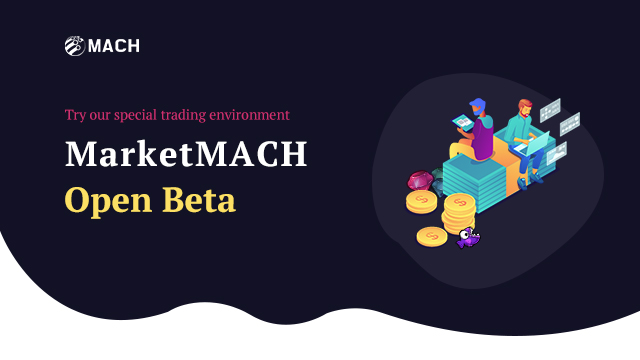
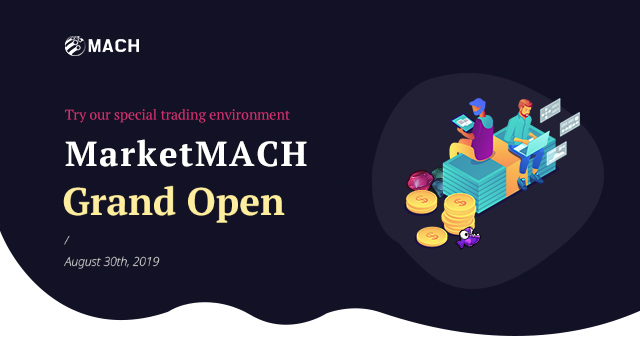
[메인] 한글, 영문 메인 배너 변경

Changed region(s): [[0.0938, 0.5194, 0.4375, 0.6417], [0.0938, 0.7028, 0.25, 0.7639]]

diff --git a/views/v2/main/index.html b/views/v2/main/index.html
@@ -345,8 +345,16 @@
         <div class="visual_wrap">
             <section class="visual_sec">
                 <h1 class="blind">메인 비주얼 이미지 영역</h1>
-                <div class="slick_visual">    
+                <div class="slick_visual">
                     <div class="visual_img">
+                        <div class="pc_img">
+                            <img src="/static/img/main/main_visual18.jpg" alt="마하코인 상장">
+                        </div>
+                        <div class="mob_img">
+                            <img src="/static/img/mob/m_main_visual18.jpg" alt="마하코인 상장">
+                        </div>
+                    </div>                    
+                    <!-- <div class="visual_img">
                         <a href="http://bit.ly/2JsCDwQ" target="_blank">
                             <div class="pc_img">
                                 <img src="/static/img/main/main_visual15.jpg" alt="LATOKEN">
@@ -365,7 +373,7 @@
                                 <img src="/static/img/mob/m_main_visual14.jpg" alt="마하코인 2차 IEO">
                             </div>
                         </a>
-                    </div>
+                    </div> -->
                     <div class="visual_img">
                         <a href="/gameStation/superlanding/info">
                             <div class="pc_img">
@@ -404,7 +412,7 @@
                 </div>
                 <%# nav-visual-length의 숫자 배너 length에 맞게 적을 것 %>
                 <div class="nav_slick_visual" id="navSlcikVisual" nav-visual-length="4">
-                    <div class="nav_text_box"><div class="nav_text_box_inner"><em>LATOKEN</em></div></div>
+                    <div class="nav_text_box"><div class="nav_text_box_inner"><em>마하코인 상장</em></div></div>
                     <div class="nav_text_box"><div class="nav_text_box_inner"><em>마하코인 2차 IEO</em></div></div>    
                     <div class="nav_text_box"><div class="nav_text_box_inner"><em>2nd MACH Game</em></div></div>
                     <div class="nav_text_box"><div class="nav_text_box_inner"><em>마켓마하 오픈베타</em></div></div>

diff --git a/views/v2_en/main/index.html b/views/v2_en/main/index.html
@@ -346,7 +346,7 @@
             <section class="visual_sec">
                 <h1 class="blind">Main Banners</h1>
                 <div class="slick_visual">
-                    <div class="visual_img">
+                    <!-- <div class="visual_img">
                         <a href="http://bit.ly/2JsCDwQ" target="_blank">
                             <div class="pc_img">
                                 <img src="/static/img/main/main_visual15.jpg" alt="LATOKEN">
@@ -355,6 +355,14 @@
                                 <img src="/static/img/mob/m_main_visual15.jpg" alt="LATOKEN">
                             </div>
                         </a>
+                    </div>              -->
+                    <div class="visual_img">
+                        <div class="pc_img">
+                            <img src="/static/img/en/en_main_visual04.jpg" alt="Listing">
+                        </div>
+                        <div class="mob_img">
+                            <img src="/static/img/en/en_mob_main_visual04.jpg" alt="Listing">
+                        </div>
                     </div>             
                     <div class="visual_img">
                         <a href="/gameStation/superlanding/info/">
@@ -389,7 +397,7 @@
                 </div>
                 <%# nav-visual-length의 숫자 배너 length에 맞게 적을 것 %>
                 <div class="nav_slick_visual" id="navSlcikVisual" nav-visual-length="4">
-                    <div class="nav_text_box on"><div class="nav_text_box_inner"><em>LATOKEN</em></div></div>
+                    <div class="nav_text_box on"><div class="nav_text_box_inner"><em>Listing</em></div></div>
                     <div class="nav_text_box"><div class="nav_text_box_inner"><em>2nd Game</em></div></div>
                     <div class="nav_text_box"><div class="nav_text_box_inner"><em>1st Game</em></div></div>
                     <div class="nav_text_box"><div class="nav_text_box_inner"><em>Open Beta</em></div></div>
